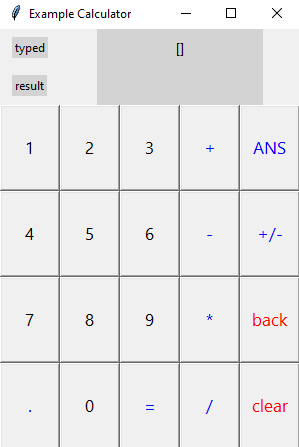
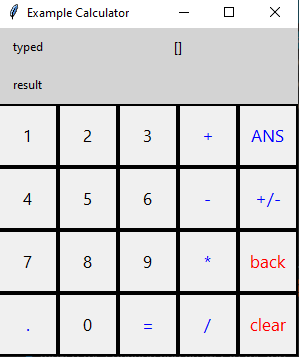
span of calculator answer widened

diff --git a/run_calculator_gui.py b/run_calculator_gui.py
@@ -139,7 +139,7 @@ def display_image(bgcolor="light gray"):
   panel.grid(row = 1, column =2, columnspan=5)
 
   panel = Label(master=Wrangle.inter, text=F"{Storage.previous_answer[-1]}", background=bgcolor)
-  panel.grid(row = 1, column =1, columnspan=5)
+  panel.grid(row = 1, column =2, columnspan=4)
 
 
 def backend_writer_function():
@@ -178,13 +178,33 @@ def main():
                    ["blue", "blue", "red", "red"],
                    ]
   default_fontsize = 13
+  samething = "solid"# flat, groove, raised, ridge, solid, or sunken
+  reliefs = [[],
+                   [f"{samething}" for xx in range(4)],
+                   [f"{samething}" for xx in range(4)],
+                   [f"{samething}" for xx in range(4)],
+                   [f"{samething}" for xx in range(4)],
+                   [f"{samething}" for xx in range(4)],
+                   ]
+  sized_to = [2,5]
+  sizings = [[],
+                   [sized_to for xx in range(4)],
+                   [sized_to for xx in range(4)],
+                   [sized_to for xx in range(4)],
+                   [sized_to for xx in range(4)],
+                   [sized_to for xx in range(4)],
+
+            ]
   user_interface_tool.make_function_array_into_buttons(m=Wrangle.inter, arrays=functions, texts =button_labels, 
                                      default_text = False,
                                      zero_zero= (2,0),
                                      text_colors=text_colors,
-                                     default_fontsize=default_fontsize)
+                                     default_fontsize=default_fontsize,
+                                     reliefs = reliefs,
+                                     sizing=sizings)
   display_image()
   # title_bar = Frame(Wrangle.inter, bg='red', relief='raised', bd=2)
+  Wrangle.inter.configure(background="light gray")
   Wrangle.inter.mainloop()
 if __name__ ==  "__main__":
   main()

diff --git a/user_interface_tool.py b/user_interface_tool.py
@@ -8,7 +8,10 @@ from tkinter import *
 def make_function_array_into_buttons(m, arrays, texts =False, 
                                      default_text = False,
                                      zero_zero= (0,0),
-                                     text_colors=False, bg_colors=False, default_fontsize = 10 ): #leftmost buttons going down first column
+                                     text_colors=False, bg_colors=False, default_fontsize = 10 ,
+                                     reliefs = False,
+                                     sizing = False, #( height, width)
+                                     ): #leftmost buttons going down first column
     if texts == False:
       texts = [["" for __ in xx ] for xx in arrays]
       if default_text != False:
@@ -27,6 +30,11 @@ def make_function_array_into_buttons(m, arrays, texts =False,
            buttons[horizontal_index][index].config(foreground=text_colors[horizontal_index][index])
          if bg_colors != False:
            buttons[horizontal_index][index].config(bg=bg_colors[horizontal_index][index])
+         if reliefs != False:
+           buttons[horizontal_index][index].config(relief=reliefs[horizontal_index][index])
+         if sizing != False:
+           buttons[horizontal_index][index].config(width=sizing[horizontal_index][index][1],
+                                                   height=sizing[horizontal_index][index][0])
          buttons[horizontal_index][index].config(font= ("Segoe UI",default_fontsize,))
          buttons[horizontal_index][index].grid(row = index+zero_zero[0], column =horizontal_index+zero_zero[1]) 
 
